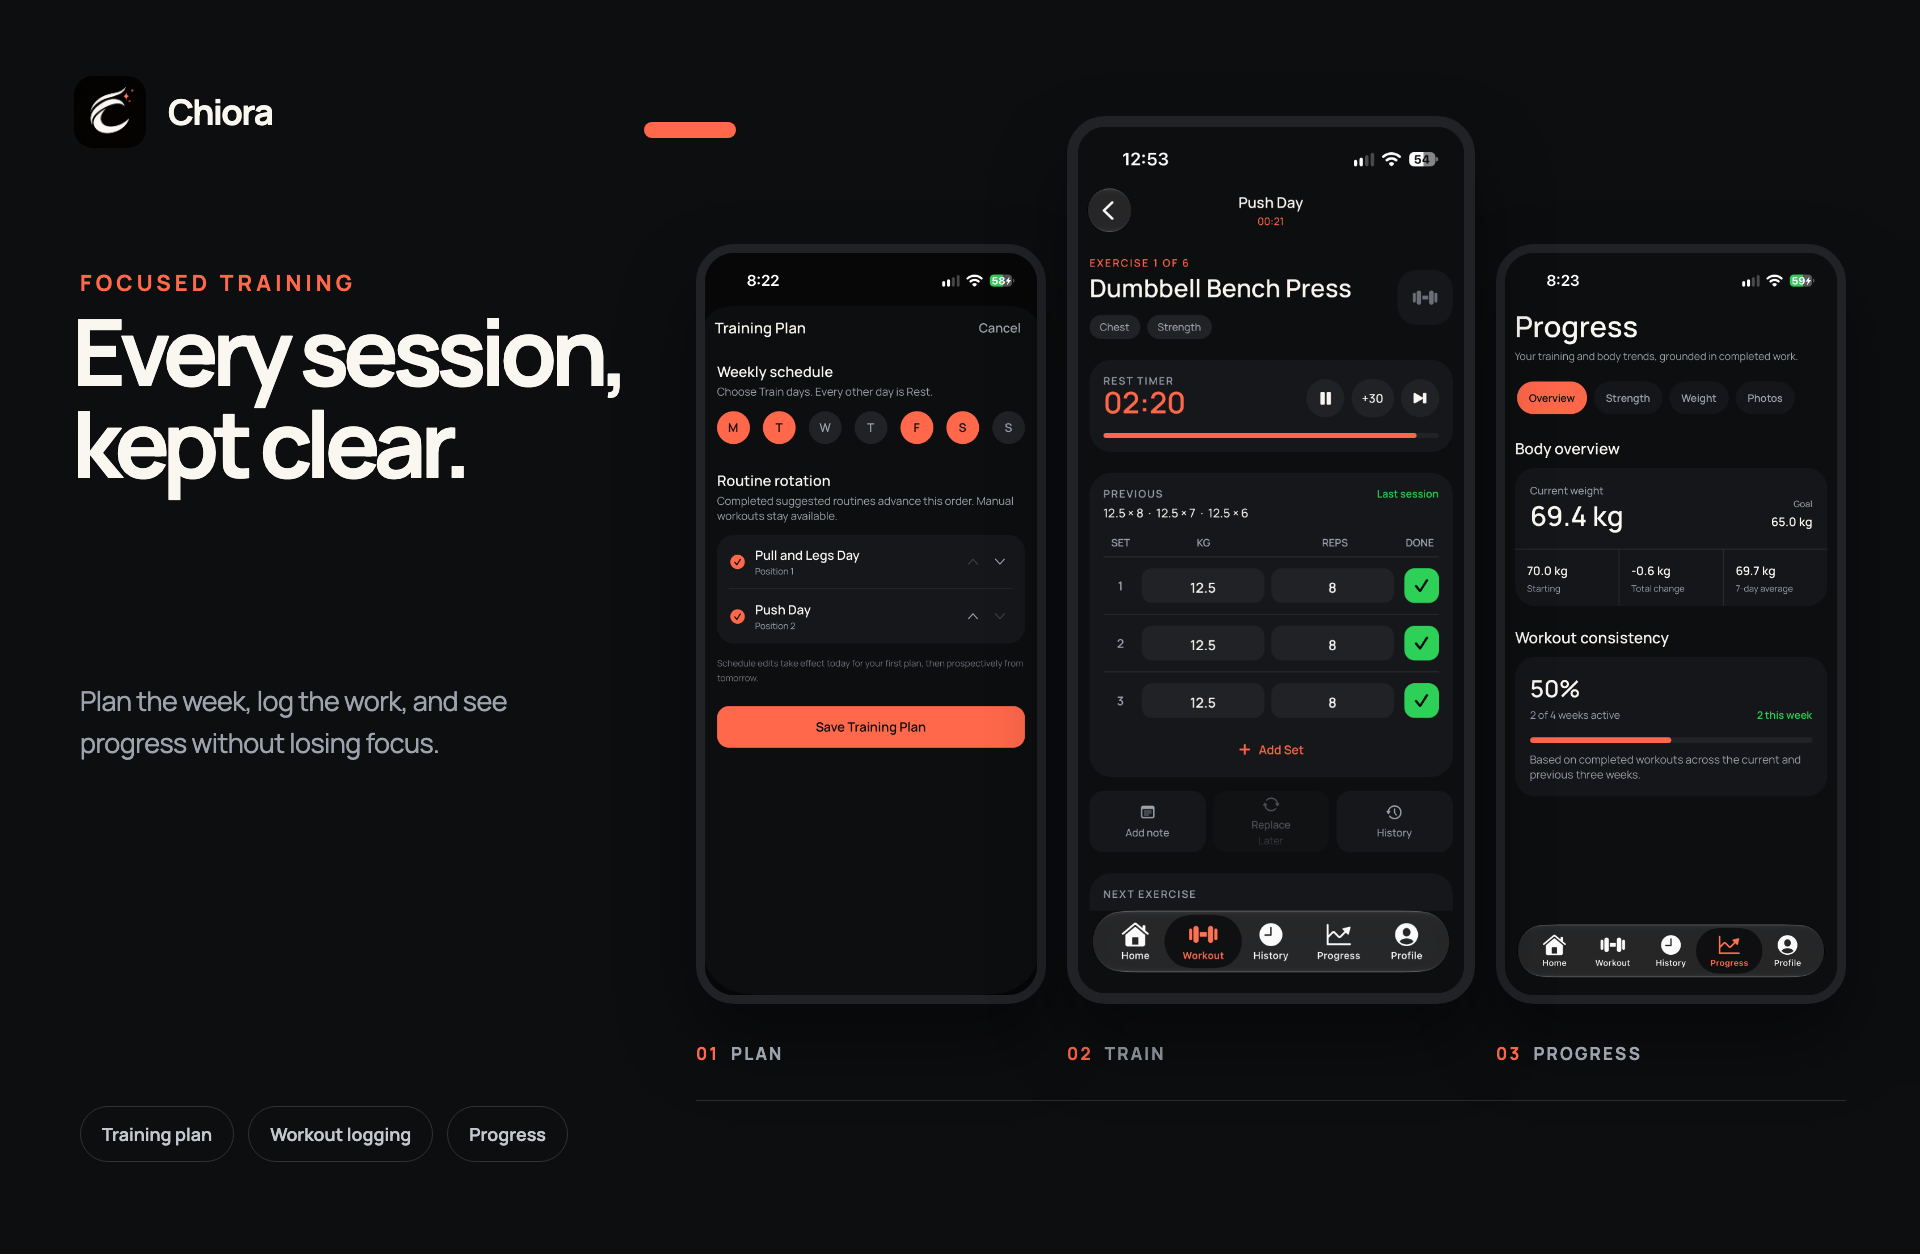
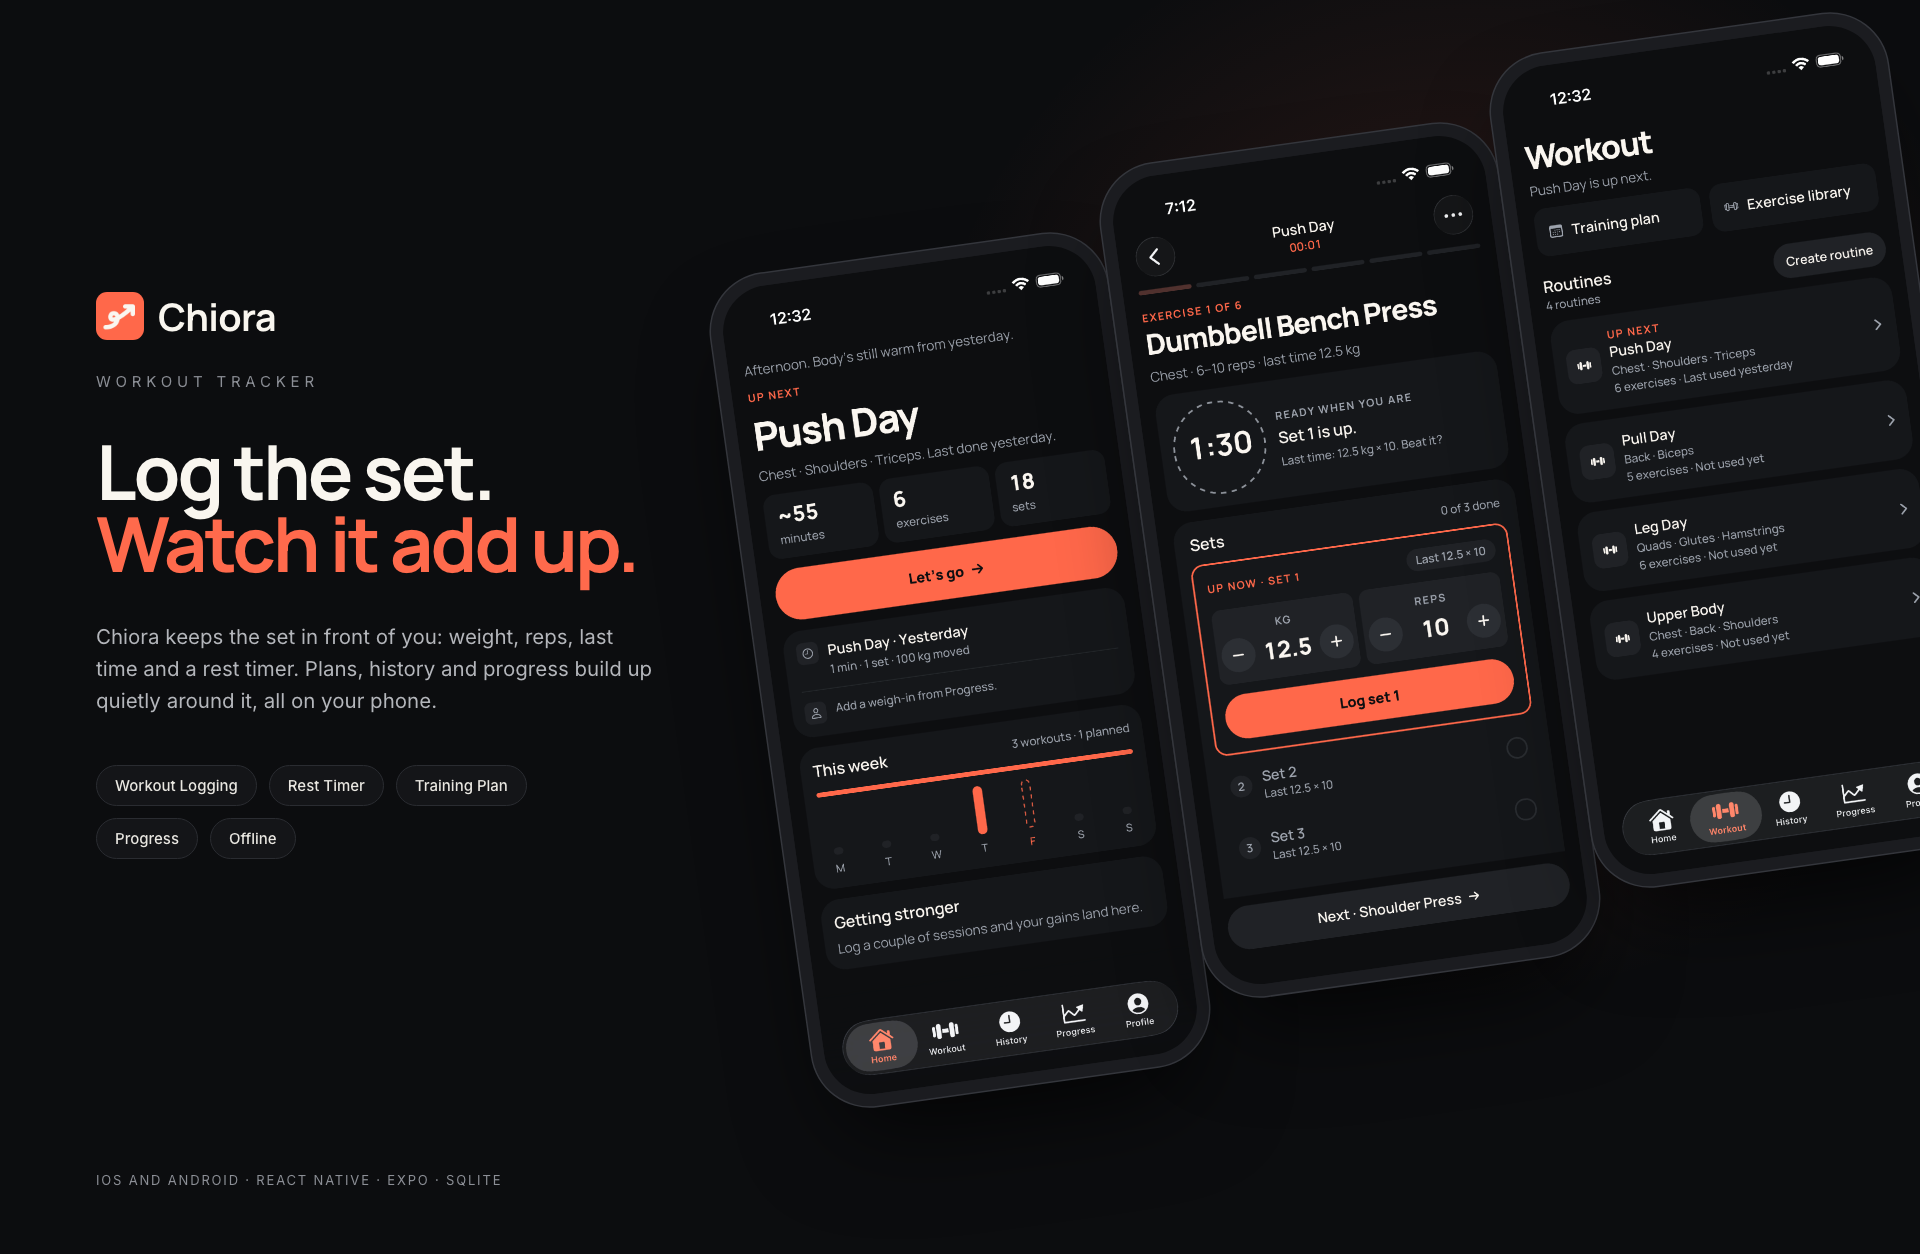
Add Bridge project and refresh Chiora
Add Bridge with its own mockup, logo and screenshots. Give Chiora a new
mockup in the same layout as the other projects, its new logo, current
screenshots, and updated details (Android support, local-only data,
weigh-ins, history search).

diff --git a/client/src/components/RecentProject/projects.ts b/client/src/components/RecentProject/projects.ts
@@ -22,9 +22,14 @@ import IlabCICTLaboratories from "@/assets/ilabcict/manage-laboratory.png"
 import IlabCICTWeeklyReports from "@/assets/ilabcict/weekly-reports.png"
 import IlabCICTRepairLogs from "@/assets/ilabcict/repair-logs.png"
 
-import ChioraActiveWorkout from "@/assets/chiora/active-workout.png"
-import ChioraPillars from "@/assets/chiora/product-pillars.png"
-import ChioraLocalFirst from "@/assets/chiora/local-first.png"
+import ChioraHomeAndWorkout from "@/assets/chiora/home-and-workout.png"
+import ChioraProgressAndHistory from "@/assets/chiora/progress-and-history.png"
+
+import BridgeLogo from "@/assets/bridge-logo.svg"
+import Bridge from "@/assets/bridge-mockup.png"
+import BridgeChatAndPanel from "@/assets/bridge/chat-and-panel.png"
+import BridgeSession from "@/assets/bridge/session.png"
+import BridgeActivity from "@/assets/bridge/activity.png"
 
 import LinewiseCallDetail from "@/assets/linewise/04-call-detail.png"
 import LinewiseRedaction from "@/assets/linewise/05-redacted-transcript-and-coaching-note.png"
@@ -163,18 +168,18 @@ export const projects: Project[] = [
     },
     {
         slug: "chiora", logo: ChioraLogo, title: "Chiora", year: 2026, image: Chiora,
-        category: "Health & Fitness", tags: ["Workout Tracking", "Progress Tracking", "Live Activities"], href: "https://chiora-web.vercel.app/",
+        category: "Health & Fitness", tags: ["Workout Tracking", "Progress Tracking", "Offline"], href: "https://chiora-web.vercel.app/",
         details: {
             summary: "A workout tracker for logging training fast and seeing progress clearly.",
             links: [
                 { label: "Website", href: "https://chiora-web.vercel.app/" },
             ],
             facts: [
-                { label: "PLATFORM", value: "iOS · React Native and Expo" },
-                { label: "TIMELINE", value: "Aug – Oct 2026" },
+                { label: "PLATFORM", value: "iOS and Android · React Native and Expo" },
+                { label: "TIMELINE", value: "Aug – Nov 2026" },
                 { label: "TYPE", value: "Personal project" },
             ],
-            stack: ["React Native", "Expo", "TypeScript", "Expo Router", "NativeWind", "Reanimated", "SQLite", "Supabase", "Swift"],
+            stack: ["React Native", "Expo", "TypeScript", "Expo Router", "NativeWind", "Reanimated", "SQLite", "Swift", "Maestro"],
             problem: [
                 "Logging a workout should take seconds between sets, but most fitness apps bury that behind accounts, feeds and dashboards. I wanted something that gets out of the way during training and still shows real progress over weeks.",
             ],
@@ -182,19 +187,19 @@ export const projects: Project[] = [
             features: [
                 { title: "Focused workout logging", description: "Log weight and reps with your previous performance beside each set, plus exercise notes and a workout summary." },
                 { title: "Rest timer everywhere", description: "The rest timer runs in the app, in a Live Activity and in the Dynamic Island." },
-                { title: "Training structure", description: "Routines, a reusable exercise library, and a weekly plan with routine rotation." },
-                { title: "Progress", description: "Strength progression, estimated max lift, training volume, body weight trends and same-pose progress photo comparison." },
+                { title: "Training structure", description: "Routines, custom exercises in a reusable library, and a weekly plan with routine rotation and training-day reminders." },
+                { title: "Progress", description: "Strength progression, estimated max lift, training volume, weigh-ins with goal progress, and same-pose progress photo comparison." },
+                { title: "History", description: "A weekly calendar and every past workout, searchable by workout, routine or exercise, with filters." },
                 { title: "Home Screen widgets", description: "Small and medium widgets show the active workout, rest timer or next training day." },
             ],
             challenges: [
-                { title: "Local-first data", description: "Everything reads and writes an on-device SQLite database with versioned, data-preserving migrations. Cloud backup through Supabase is optional and never sits in the way of a workout." },
+                { title: "Local-only data", description: "Everything reads and writes an on-device SQLite database with versioned, data-preserving migrations. There are no accounts or cloud services; data leaves the phone only when you export a backup file." },
                 { title: "A timer that stays accurate", description: "The rest timer, notifications and the native Swift Live Activity all share one stored deadline, so they agree with each other without updating JavaScript every second." },
-                { title: "Native feel", description: "Native iOS tabs, sheets and controls with SF Symbols where they're supported, and working fallbacks on Android." },
+                { title: "Native on both platforms", description: "Native iOS tabs, sheets and controls with SF Symbols, and Android support with its own dialogs, notifications and bottom bar, checked with Maestro test flows." },
             ],
             screenshots: [
-                { image: ChioraActiveWorkout, caption: "An active workout with the rest timer and logged sets.", width: 2000, height: 1246 },
-                { image: ChioraPillars, caption: "Workout logging, progress, training structure and local-first data.", width: 2000, height: 941 },
-                { image: ChioraLocalFirst, caption: "Train locally, back up when ready, and restore when needed.", width: 2000, height: 508 },
+                { image: ChioraHomeAndWorkout, caption: "Home with what's up next, an active set with the rest timer, and routines.", width: 2000, height: 1250 },
+                { image: ChioraProgressAndHistory, caption: "Weigh-ins in Progress, and History with the weekly calendar.", width: 2000, height: 1250 },
             ],
         },
     },
@@ -281,6 +286,44 @@ export const projects: Project[] = [
                 { image: ResiteTemplates, caption: "Picking a template, each one shown with your own details.", width: 2000, height: 1250 },
                 { image: ResiteTemplateShowcase, caption: "Templates on the landing page, shown with invented sample resumes.", width: 2000, height: 1648 },
                 { image: ResiteAIStudio, caption: "The AI studio suggests three designs from your resume.", width: 2000, height: 1345 },
+            ],
+        },
+    },
+    {
+        slug: "bridge", logo: BridgeLogo, title: "Bridge", year: 2026, image: Bridge,
+        category: "Developer Tools", tags: ["Chrome Extension", "Desktop App", "Local Only"], href: "https://trybridge-landingpage.vercel.app/",
+        details: {
+            summary: "Lets the ChatGPT web chat edit a project on your computer, with you in charge.",
+            links: [
+                { label: "Website", href: "https://trybridge-landingpage.vercel.app/" },
+                { label: "GitHub", href: "https://github.com/jpsoriaga/bridge" },
+            ],
+            facts: [
+                { label: "PLATFORM", value: "macOS, Windows and Linux · Chrome extension" },
+                { label: "TIMELINE", value: "Oct – Nov 2026" },
+                { label: "TYPE", value: "Personal project · open beta" },
+            ],
+            stack: ["Electron", "electron-vite", "React", "TypeScript", "Chrome Extension (MV3)", "WebSocket", "Zod", "Vitest", "Playwright"],
+            problem: [
+                "I couldn't afford the paid AI coding tools, but I had the ChatGPT web chat. So I pasted my files in one by one and copied every answer back by hand. It worked, but it was slow and easy to get wrong.",
+            ],
+            overview: "Bridge does that copying for you. The chat writes whole files in a simple format; the extension shows each one as a diff card under the reply, and the desktop app writes it into your project only when you click Apply. Everything runs on your computer, with no accounts and nothing sent anywhere else.",
+            features: [
+                { title: "Diff cards in the chat", description: "Each file the chat writes shows up under the reply as a diff against your copy, with Apply and Reject. Deletes, renames and commands get their own cards." },
+                { title: "Undo for everything", description: "Every write is backed up first, so any change can be undone from the card or from the app's Activity." },
+                { title: "Commands you allow", description: "The chat can run tests or start a dev server, but only commands on your allowlist, and dev servers keep running in the background." },
+                { title: "Three modes", description: "Manual reviews every edit, Auto-apply writes as soon as the reply finishes, and the opt-in Full auto keeps going until the work is done." },
+                { title: "Project-aware prompts", description: "Start session gives the chat your file list and how the project is built, so it follows your structure and conventions." },
+            ],
+            challenges: [
+                { title: "A sandbox for the chat", description: "The app checks every path against the project folder, blocks protected files, and holds lockfiles and configs for review. The extension only talks to the app over 127.0.0.1, after pairing with a code and a fingerprint." },
+                { title: "Reading a chat that keeps changing", description: "Replies stream in and the page changes often, so the parser only acts on finished replies, rejects any marker that holds another marker, and offers a format reminder when the chat slips." },
+                { title: "Full auto that knows when to stop", description: "A loop guard pauses when the same command fails the same way three times, or the same file is written with the same content." },
+            ],
+            screenshots: [
+                { image: BridgeChatAndPanel, caption: "Diff, delete, rename and command cards under the chat's reply, and the side panel.", width: 2000, height: 1234 },
+                { image: BridgeSession, caption: "The desktop app: setup checklist, project, pairing and mode.", width: 2000, height: 1234 },
+                { image: BridgeActivity, caption: "Activity: every write, delete, rename and command, with Undo.", width: 2000, height: 1234 },
             ],
         },
     },

diff --git a/client/index.html b/client/index.html
@@ -5,18 +5,18 @@
     <link rel="icon" type="image/webp" href="/meme.webp" />
     <meta name="viewport" content="width=device-width, initial-scale=1.0" />
     <title>John Patrick Soriaga | Portfolio</title>
-    <meta name="description" content="John Patrick Soriaga is a web developer from the Philippines. See his projects, including Smart Subway, IlabCICT, Chiora, Linewise and Resite." />
+    <meta name="description" content="John Patrick Soriaga is a web developer from the Philippines. See his projects, including Bridge, Resite, Linewise, Chiora and Smart Subway." />
     <meta name="author" content="John Patrick Soriaga" />
     <link rel="canonical" href="https://jpsoriaga.me/" />
 
     <meta property="og:type" content="website" />
     <meta property="og:site_name" content="John Patrick Soriaga" />
     <meta property="og:title" content="John Patrick Soriaga | Portfolio" />
-    <meta property="og:description" content="John Patrick Soriaga is a web developer from the Philippines. See his projects, including Smart Subway, IlabCICT, Chiora, Linewise and Resite." />
+    <meta property="og:description" content="John Patrick Soriaga is a web developer from the Philippines. See his projects, including Bridge, Resite, Linewise, Chiora and Smart Subway." />
     <meta property="og:url" content="https://jpsoriaga.me/" />
     <meta name="twitter:card" content="summary" />
     <meta name="twitter:title" content="John Patrick Soriaga | Portfolio" />
-    <meta name="twitter:description" content="John Patrick Soriaga is a web developer from the Philippines. See his projects, including Smart Subway, IlabCICT, Chiora, Linewise and Resite." />
+    <meta name="twitter:description" content="John Patrick Soriaga is a web developer from the Philippines. See his projects, including Bridge, Resite, Linewise, Chiora and Smart Subway." />
 
     <script type="application/ld+json">
       {
